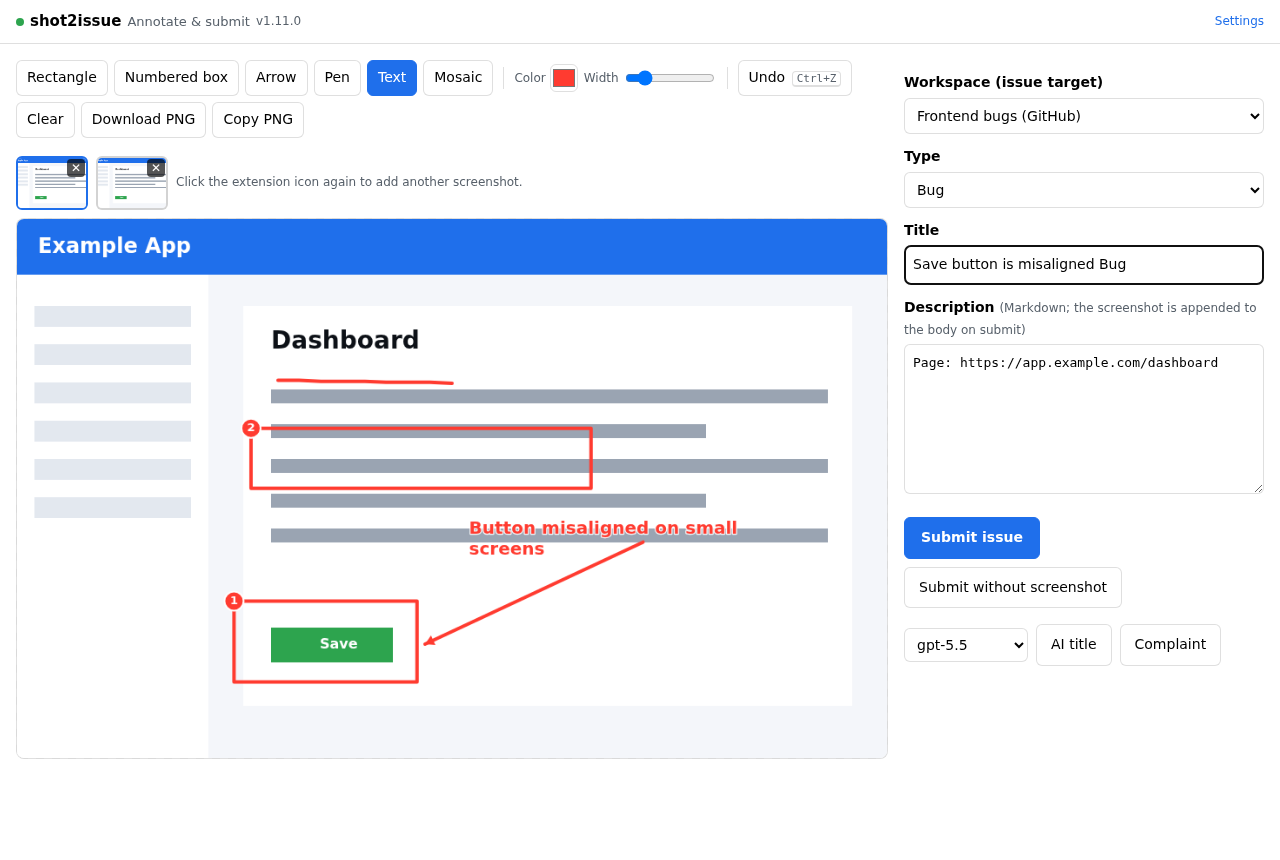
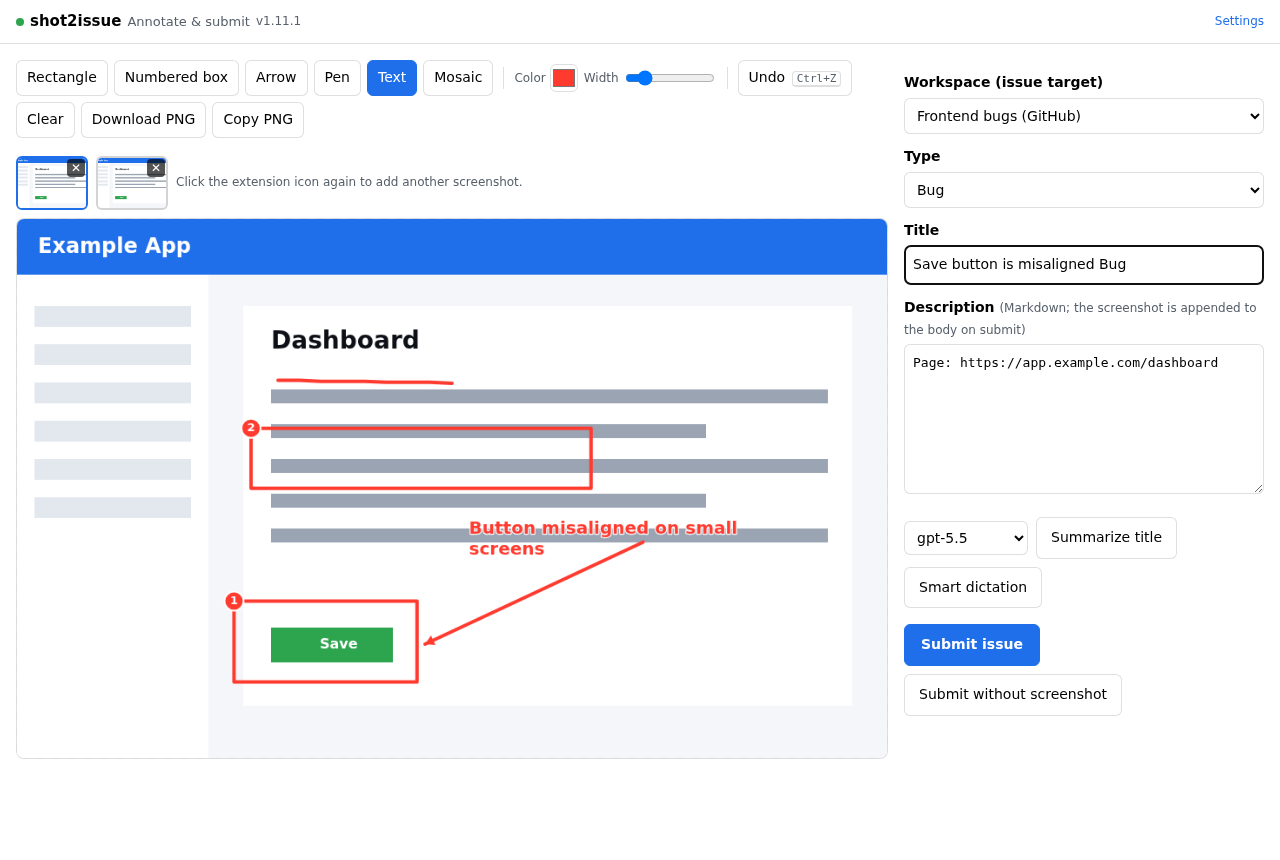
refactor: rename AI buttons (Summarize title / Smart dictation); move AI above submit
- Rename the two AI actions in all three locales (internal keys unchanged):
  "AI title" → "Summarize title" (总结标题 / タイトル要約)
  "Complaint" → "Smart dictation" (智能口述 / スマート口述)
  Update tooltips, the dictation modal title/placeholder, the dictation-prompt label, and
  soften the default complaint prompt wording (complaint → report). README (en/zh/ja).
- Move the AI actions row (model picker + the two buttons) to just above the Submit button.
- Build green; smoke/unit unaffected (selectors are IDs). Editor screenshot refreshed.

Changed region(s): [[0.6875, 0.5744, 0.9062, 0.6953], [0.6875, 0.7256, 0.9375, 0.8163]]

diff --git a/src/lib/i18n.ts b/src/lib/i18n.ts
@@ -156,8 +156,8 @@ const MESSAGES: Record<string, Record<string, string>> = {
     aiPromptHint: 'Instructions sent to the model when generating a title. Leave it on the default to follow the interface language.',
     aiPromptRestore: 'Restore default prompt',
     aiTitlePromptDefault: 'You write concise, specific issue titles. Read the report below and return ONLY the title: a single line, no surrounding quotes, no trailing punctuation, at most about 80 characters. Write the title in the same language as the description.',
-    aiComplaintPromptLabel: 'Complaint prompt (voice)',
-    aiComplaintPromptDefault: "You turn a user's complaint and screenshots into a clear software issue. Write a concise, specific title and a well-structured Markdown body (what happened, where it happened, steps if any, and expected vs. actual). If a screenshot has numbered boxes (circled numbers), refer to them by number in the description, e.g. \"in screenshot 1, box #1 …\". Write in the same language as the complaint. Return ONLY a JSON object with string fields \"title\" and \"body\".",
+    aiComplaintPromptLabel: 'Dictation prompt',
+    aiComplaintPromptDefault: "You turn a user's report (typed or dictated) and screenshots into a clear software issue. Write a concise, specific title and a well-structured Markdown body (what happened, where it happened, steps if any, and expected vs. actual). If a screenshot has numbered boxes (circled numbers), refer to them by number in the description, e.g. \"in screenshot 1, box #1 …\". Write in the same language as the report. Return ONLY a JSON object with string fields \"title\" and \"body\".",
     aiUsage: 'Usage',
     aiUsage5h: '5-hour window',
     aiUsageWeek: 'Weekly',
@@ -167,17 +167,17 @@ const MESSAGES: Record<string, Record<string, string>> = {
     aiSignOut: 'Sign out',
     aiSignedOut: 'Signed out',
     // Editor AI button
-    aiTitle: 'AI title',
-    aiTitleTitle: 'Generate a title from the description using AI',
+    aiTitle: 'Summarize title',
+    aiTitleTitle: 'Summarize the description into a concise title with AI',
     aiTitleGenerating: 'Generating…',
     aiTitleNeedConnect: 'Connect the AI assistant in Settings to use this.',
     aiTitleNeedBody: 'Add a description first so the AI has something to work with.',
     aiTitleFailed: 'AI title failed: {0}',
     // Voice complaint
-    complaint: 'Complaint',
-    complaintTitle: 'Describe a complaint (type or dictate); AI writes the title and description',
-    complaintModalTitle: 'Complaint',
-    complaintPlaceholder: 'Type your complaint, or use the record button to dictate. Numbered boxes in the screenshots can be referenced by number.',
+    complaint: 'Smart dictation',
+    complaintTitle: 'Dictate or type a description; AI writes the title and body',
+    complaintModalTitle: 'Smart dictation',
+    complaintPlaceholder: 'Describe the problem — type it, or use the record button to dictate. Numbered boxes in the screenshots can be referenced by number.',
     complaintRecordStart: '🎤 Record',
     complaintRecordStop: '■ Stop & transcribe',
     complaintGenerate: 'Generate title & description',
@@ -346,8 +346,8 @@ const MESSAGES: Record<string, Record<string, string>> = {
     aiPromptHint: '生成标题时发送给模型的指令。保留默认即可跟随界面语言。',
     aiPromptRestore: '恢复默认提示词',
     aiTitlePromptDefault: '你负责撰写简洁、具体的 issue 标题。阅读下面的报告，只返回标题本身：一行、不要加引号、结尾不要标点、不超过约 40 个字。使用与描述相同的语言撰写标题。',
-    aiComplaintPromptLabel: '抱怨提示词（语音）',
-    aiComplaintPromptDefault: '你要把用户的抱怨和截图整理成一个清晰的软件 issue。撰写简洁、具体的标题，以及结构良好的 Markdown 正文（发生了什么、在哪里、复现步骤（如有）、期望与实际）。如果某张截图里有编号框（带圈数字），请在描述中结合编号说明，例如「第 1 张里的 1 号框……」。使用与抱怨相同的语言。只返回一个包含字符串字段 "title" 和 "body" 的 JSON 对象。',
+    aiComplaintPromptLabel: '口述提示词',
+    aiComplaintPromptDefault: '你要把用户口述或输入的内容和截图整理成一个清晰的软件 issue。撰写简洁、具体的标题，以及结构良好的 Markdown 正文（发生了什么、在哪里、复现步骤（如有）、期望与实际）。如果某张截图里有编号框（带圈数字），请在描述中结合编号说明，例如「第 1 张里的 1 号框……」。使用与输入内容相同的语言。只返回一个包含字符串字段 "title" 和 "body" 的 JSON 对象。',
     aiUsage: '用量',
     aiUsage5h: '5 小时窗口',
     aiUsageWeek: '每周',
@@ -357,17 +357,17 @@ const MESSAGES: Record<string, Record<string, string>> = {
     aiSignOut: '退出登录',
     aiSignedOut: '已退出登录',
     // 编辑页 AI 按钮
-    aiTitle: 'AI 标题',
-    aiTitleTitle: '用 AI 根据描述生成标题',
+    aiTitle: '总结标题',
+    aiTitleTitle: '用 AI 把描述总结成简洁标题',
     aiTitleGenerating: '生成中…',
     aiTitleNeedConnect: '请先在设置里连接 AI 助手。',
     aiTitleNeedBody: '请先填写描述，AI 才能据此生成。',
     aiTitleFailed: 'AI 生成标题失败：{0}',
     // 语音抱怨
-    complaint: '抱怨',
-    complaintTitle: '描述你的抱怨（可打字或语音），AI 据此生成标题和正文',
-    complaintModalTitle: '抱怨',
-    complaintPlaceholder: '输入你的抱怨，或点录音按钮口述。截图里的编号框可以按编号引用。',
+    complaint: '智能口述',
+    complaintTitle: '口述或打字描述，AI 据此生成标题和正文',
+    complaintModalTitle: '智能口述',
+    complaintPlaceholder: '描述你遇到的问题——可打字，或点录音按钮口述。截图里的编号框可以按编号引用。',
     complaintRecordStart: '🎤 录音',
     complaintRecordStop: '■ 停止并转写',
     complaintGenerate: '生成标题与正文',
@@ -535,8 +535,8 @@ const MESSAGES: Record<string, Record<string, string>> = {
     aiPromptHint: 'タイトル生成時にモデルへ送る指示。既定のままにするとインターフェース言語に追従します。',
     aiPromptRestore: '既定のプロンプトに戻す',
     aiTitlePromptDefault: 'あなたは簡潔で具体的な issue タイトルを書きます。下記のレポートを読み、タイトルのみを返してください：1 行、引用符なし、末尾の句読点なし、最大 80 文字程度。説明と同じ言語でタイトルを書いてください。',
-    aiComplaintPromptLabel: 'クレーム用プロンプト（音声）',
-    aiComplaintPromptDefault: 'ユーザーのクレームとスクリーンショットを、明確なソフトウェア issue にまとめます。簡潔で具体的なタイトルと、整理された Markdown 本文（何が・どこで起きたか、再現手順があれば、期待と実際）を書いてください。スクリーンショットに番号付き枠（丸囲み数字）がある場合は、説明で番号を用いて参照してください（例：「1 枚目の枠 #1 は……」）。クレームと同じ言語で書いてください。文字列フィールド "title" と "body" を持つ JSON オブジェクトのみを返してください。',
+    aiComplaintPromptLabel: '口述プロンプト',
+    aiComplaintPromptDefault: 'ユーザーの記述（入力または口述）とスクリーンショットを、明確なソフトウェア issue にまとめます。簡潔で具体的なタイトルと、整理された Markdown 本文（何が・どこで起きたか、再現手順があれば、期待と実際）を書いてください。スクリーンショットに番号付き枠（丸囲み数字）がある場合は、説明で番号を用いて参照してください（例：「1 枚目の枠 #1 は……」）。記述と同じ言語で書いてください。文字列フィールド "title" と "body" を持つ JSON オブジェクトのみを返してください。',
     aiUsage: '使用量',
     aiUsage5h: '5 時間枠',
     aiUsageWeek: '週間',
@@ -546,17 +546,17 @@ const MESSAGES: Record<string, Record<string, string>> = {
     aiSignOut: 'サインアウト',
     aiSignedOut: 'サインアウトしました',
     // エディタの AI ボタン
-    aiTitle: 'AI タイトル',
-    aiTitleTitle: 'AI で説明からタイトルを生成',
+    aiTitle: 'タイトル要約',
+    aiTitleTitle: 'AI で説明を簡潔なタイトルに要約',
     aiTitleGenerating: '生成中…',
     aiTitleNeedConnect: '設定で AI アシスタントを接続してください。',
     aiTitleNeedBody: 'まず説明を入力してください。AI がそれを基に生成します。',
     aiTitleFailed: 'AI タイトル生成に失敗しました：{0}',
     // 音声クレーム
-    complaint: 'クレーム',
-    complaintTitle: 'クレームを記述（入力または音声）。AI がタイトルと本文を作成します',
-    complaintModalTitle: 'クレーム',
-    complaintPlaceholder: 'クレームを入力するか、録音ボタンで口述してください。スクリーンショット内の番号付き枠は番号で参照できます。',
+    complaint: 'スマート口述',
+    complaintTitle: '口述または入力で記述。AI がタイトルと本文を作成します',
+    complaintModalTitle: 'スマート口述',
+    complaintPlaceholder: '問題を記述してください——入力するか、録音ボタンで口述します。スクリーンショット内の番号付き枠は番号で参照できます。',
     complaintRecordStart: '🎤 録音',
     complaintRecordStop: '■ 停止して文字起こし',
     complaintGenerate: 'タイトルと本文を生成',

diff --git a/src/lib/ai.ts b/src/lib/ai.ts
@@ -559,12 +559,12 @@ export const TRANSCRIBE_URL = 'https://chatgpt.com/backend-api/transcribe';
 export const TRANSCRIBE_MODEL = 'whisper-1';
 
 export const DEFAULT_COMPLAINT_PROMPT =
-  "You turn a user's complaint and screenshots into a clear software issue. Write a concise, " +
-  'specific title and a well-structured Markdown body (what happened, where it happened, ' +
-  'steps if any, and expected vs. actual). If a screenshot has numbered boxes (circled ' +
-  'numbers), refer to them by number in the description, e.g. "in screenshot 1, box #1 …". ' +
-  'Write in the same language as the complaint. Return ONLY a JSON object with string fields ' +
-  '"title" and "body".';
+  "You turn a user's report (typed or dictated) and screenshots into a clear software issue. " +
+  'Write a concise, specific title and a well-structured Markdown body (what happened, where ' +
+  'it happened, steps if any, and expected vs. actual). If a screenshot has numbered boxes ' +
+  '(circled numbers), refer to them by number in the description, e.g. "in screenshot 1, ' +
+  'box #1 …". Write in the same language as the report. Return ONLY a JSON object with string ' +
+  'fields "title" and "body".';
 
 /** Coerce the stored model to a valid one and persist any repair; returns [auth, model]. */
 async function healModelFor(auth: AiAuth, override?: string): Promise<{ auth: AiAuth; model: string }> {

diff --git a/src/editor.html b/src/editor.html
@@ -57,6 +57,13 @@
       <label for="body"><span data-i18n="fieldBody"></span> <span class="hint" data-i18n="bodyHint"></span></label>
       <textarea id="body" data-i18n-placeholder="bodyPlaceholder"></textarea>
 
+      <!-- AI actions, just above the submit buttons -->
+      <div class="ai-actions" id="aiActions">
+        <select id="aiModel" class="hidden" data-i18n-title="aiModel"></select>
+        <button id="aiTitle" class="ghost" data-i18n="aiTitle" data-i18n-title="aiTitleTitle"></button>
+        <button id="complaint" class="ghost" data-i18n="complaint" data-i18n-title="complaintTitle"></button>
+      </div>
+
       <div class="actions">
         <button class="primary" id="submit" data-i18n="submit"></button>
         <button class="ghost" id="submitNoImage" data-i18n="submitNoImage" data-i18n-title="submitNoImageTitle"></button>
@@ -64,13 +71,6 @@
 
       <div id="status" class="info"></div>
       <div id="result"></div>
-
-      <!-- AI actions, kept below the form -->
-      <div class="ai-actions" id="aiActions">
-        <select id="aiModel" class="hidden" data-i18n-title="aiModel"></select>
-        <button id="aiTitle" class="ghost" data-i18n="aiTitle" data-i18n-title="aiTitleTitle"></button>
-        <button id="complaint" class="ghost" data-i18n="complaint" data-i18n-title="complaintTitle"></button>
-      </div>
     </div>
   </div>
 

diff --git a/README.md b/README.md
@@ -48,8 +48,8 @@ AI assistant — sign in with a ChatGPT subscription to generate titles:
 - Pre-configurable default title and body templates ({pageTitle}, {pageUrl}, {type}).
 - Optional AI assistant: sign in with an OpenAI Codex / ChatGPT-subscription account to
   generate an issue title from the description, and view the available models and usage.
-- Voice “Complaint”: record a spoken complaint; it is transcribed with your subscription
-  and the AI writes the issue title and body from the transcript and the screenshots.
+- Smart dictation: type a description or dictate it (dictation is transcribed with your
+  subscription); the AI writes the issue title and body from it and the screenshots.
 - Multiple workspaces, each targeting a GitHub repository or a YouTrack project.
 - GitHub submission runs in a background tab without stealing focus; the editor can
   optionally close and return you to the page you captured.
@@ -182,14 +182,15 @@ cannot listen on, so two sign-in paths are offered:
    back, and the extension completes the PKCE token exchange itself.
 
 Clicking **Sign in with ChatGPT** tries the automatic path first and falls back to the
-manual path automatically. In the editor, **AI title** then generates a title from the
-current type, page title, page URL, description, and the screenshot. The model list is
+manual path automatically. In the editor, **Summarize title** then generates a title from
+the current type, page title, page URL, description, and the screenshot. The model list is
 fetched dynamically from the Codex models endpoint (with a curated fallback). The system
 prompt is editable in Settings, with a **Restore default prompt** button that resets it to
 the current interface language's default.
 
-**“Complaint”.** The **Complaint** button opens a dialog where you type a complaint or
-dictate it (recording is transcribed with your ChatGPT subscription, `whisper-1`). The
+**Smart dictation.** The **Smart dictation** button opens a dialog where you type a
+description or dictate it (recording is transcribed with your ChatGPT subscription,
+`whisper-1`). The
 model then writes a title and a Markdown body from that text, the screenshots, and the page
 metadata (structured JSON output), referencing any numbered boxes in the screenshots. The
 dialog keeps its content between opens and can generate repeatedly. Note: the transcription
@@ -229,9 +230,9 @@ it.
 - Only the screenshot, title, description, and the current page URL are used. The
   extension does not collect console output, network activity, or device information,
   and includes no telemetry.
-- The AI assistant is off until you connect it. When you use **AI title**, the type,
+- The AI assistant is off until you connect it. When you use **Summarize title**, the type,
   description, page URL, and the current (annotated) screenshot are sent to OpenAI to
-  generate a title; **Complaint** additionally sends the recorded audio for transcription.
+  generate a title; **Smart dictation** additionally sends the recorded audio for transcription.
   Its tokens are stored in `chrome.storage.local` only and are excluded from settings
   backups.
 - Attachment visibility follows repository visibility. Attachments in private
